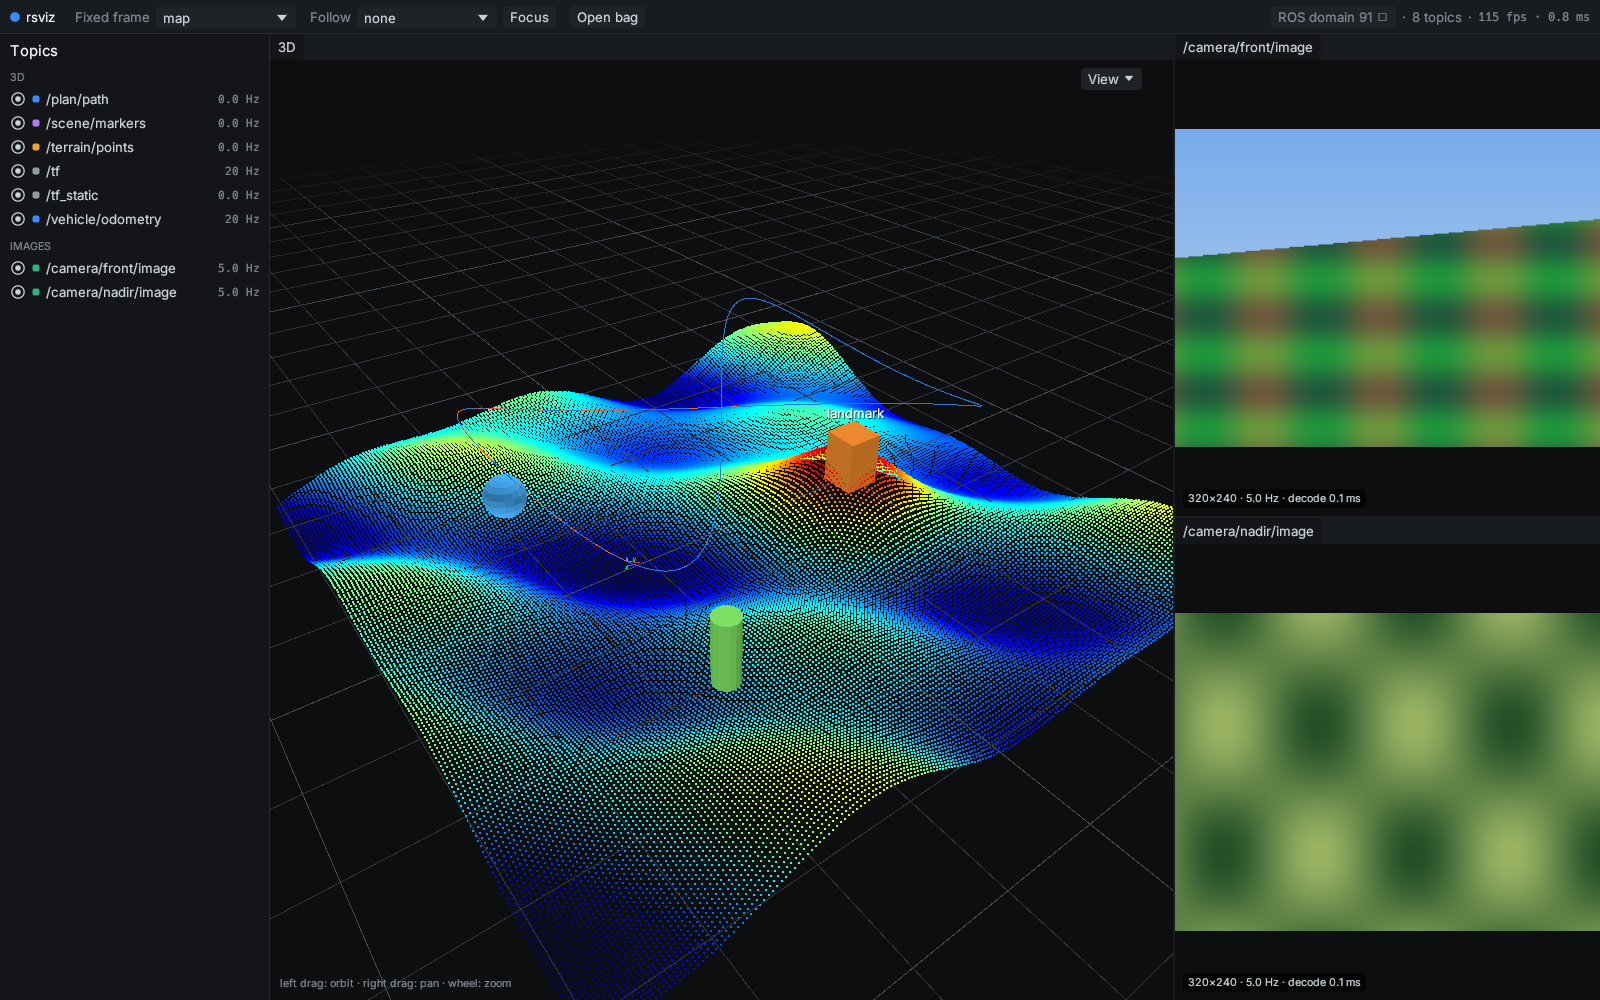
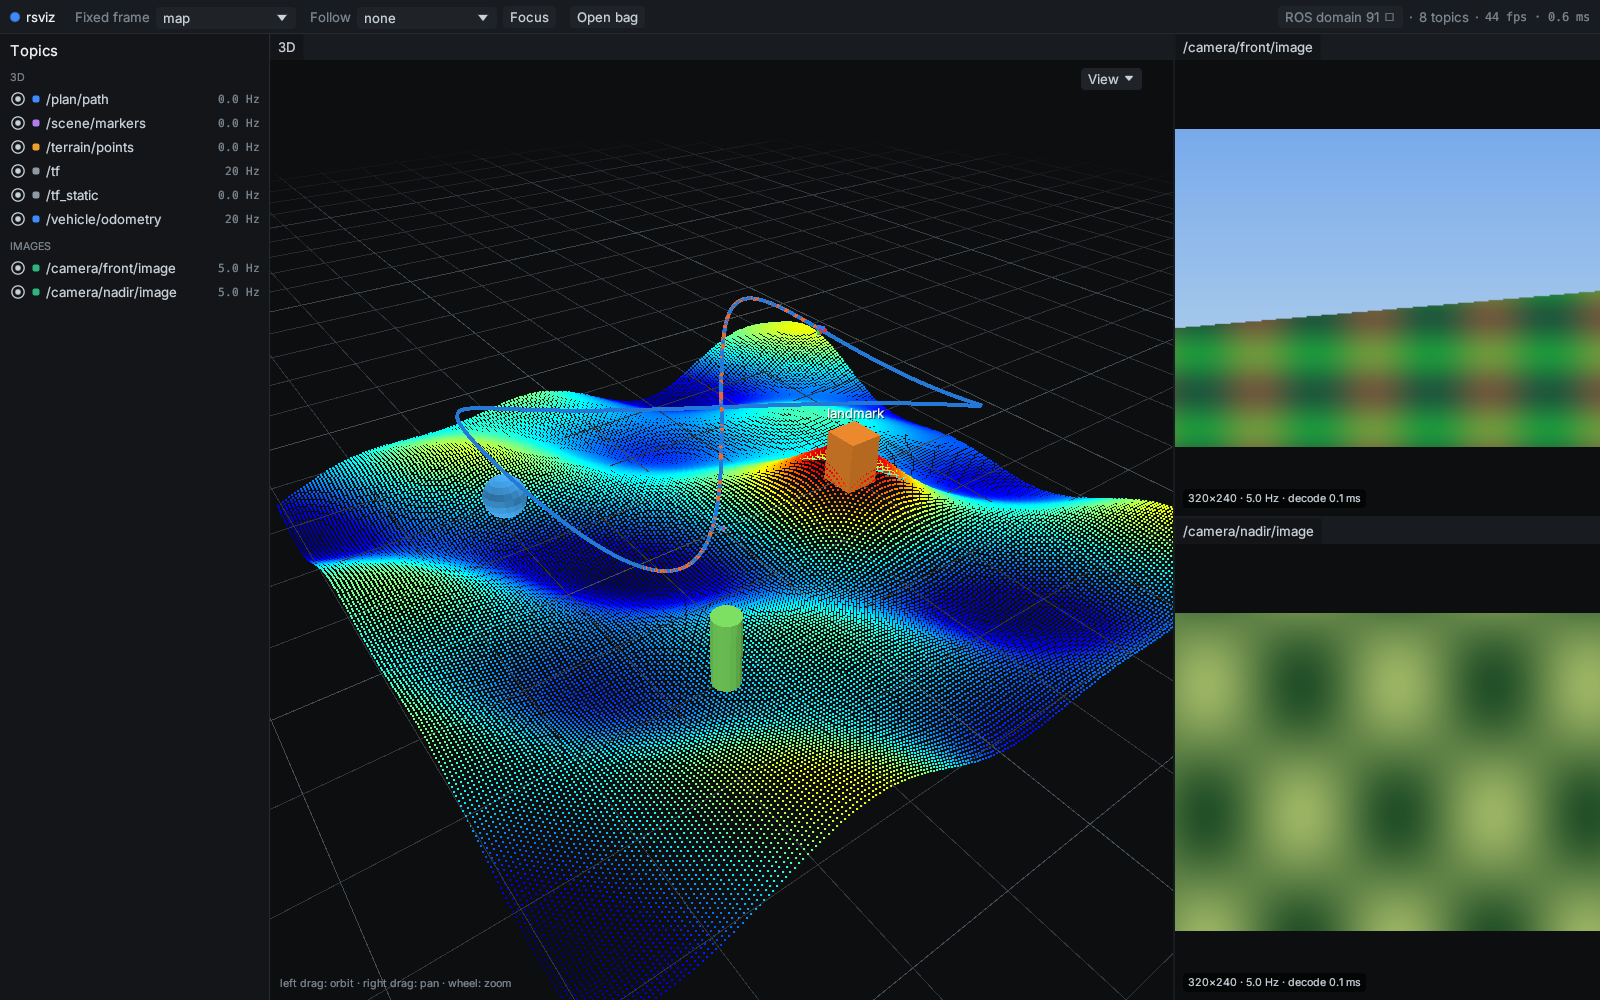
Line width: lines drawn as screen-aligned quads, --line-width and a slider in the View menu (the grid stays one pixel)

diff --git a/src/gfx.rs b/src/gfx.rs
@@ -161,7 +161,18 @@ struct PointUniform {
 #[derive(Clone, Copy, Pod, Zeroable)]
 pub struct LineVertex {
     pub pos: [f32; 3],
+    /// 1 = drawn at the line width of the view, 0 = always one pixel (the grid).
+    pub width: f32,
     pub color: [f32; 4],
+}
+
+#[repr(C)]
+#[derive(Clone, Copy, Pod, Zeroable)]
+struct LineUniform {
+    vp: [[f32; 4]; 4],
+    viewport: [f32; 2],
+    line_px: f32,
+    _p0: f32,
 }
 
 const POINT_WGSL: &str = r#"
@@ -214,11 +225,37 @@ fn cmap(t: f32) -> vec3<f32> {
 @fragment fn fs(i: VOut) -> @location(0) vec4<f32> { return vec4<f32>(i.col, 1.0); }
 "#;
 
+// One instance per segment (its two LineVertex), drawn as a screen-aligned quad `line_px` pixels wide (6 vertices): the
+// GPU line primitive is one pixel wide whatever is asked. A segment that crosses the camera plane is cut there.
 const LINE_WGSL: &str = r#"
-@group(0) @binding(0) var<uniform> vp: mat4x4<f32>;
-struct VIn { @location(0) pos: vec3<f32>, @location(1) col: vec4<f32> };
+struct U { vp: mat4x4<f32>, viewport: vec2<f32>, line_px: f32, _p0: f32 };
+@group(0) @binding(0) var<uniform> u: U;
+struct VIn {
+  @location(0) a: vec3<f32>, @location(1) aw: f32, @location(2) ac: vec4<f32>,
+  @location(3) b: vec3<f32>, @location(4) bw: f32, @location(5) bc: vec4<f32>,
+};
 struct VOut { @builtin(position) pos: vec4<f32>, @location(0) col: vec4<f32> };
-@vertex fn vs(v: VIn) -> VOut { var o: VOut; o.pos = vp * vec4<f32>(v.pos, 1.0); o.col = v.col; return o; }
+@vertex fn vs(v: VIn, @builtin(vertex_index) i: u32) -> VOut {
+  var o: VOut;
+  var ends = array<f32, 6>(0.0, 1.0, 1.0, 0.0, 1.0, 0.0);
+  var sides = array<f32, 6>(-1.0, -1.0, 1.0, -1.0, 1.0, 1.0);
+  var ca = u.vp * vec4<f32>(v.a, 1.0);
+  var cb = u.vp * vec4<f32>(v.b, 1.0);
+  let near = 1e-4;
+  o.col = v.ac;
+  if (ca.w < near && cb.w < near) { o.pos = vec4<f32>(2.0, 2.0, 2.0, 1.0); return o; }
+  if (ca.w < near) { ca = mix(ca, cb, (near - ca.w) / (cb.w - ca.w)); }
+  if (cb.w < near) { cb = mix(cb, ca, (near - cb.w) / (ca.w - cb.w)); }
+  var d = (cb.xy / cb.w - ca.xy / ca.w) * u.viewport;
+  let l = length(d);
+  if (l < 1e-6) { d = vec2<f32>(1.0, 0.0); } else { d = d / l; }
+  let px = max(1.0, mix(1.0, u.line_px, v.aw));
+  let n = vec2<f32>(-d.y, d.x) * px / u.viewport;
+  let c = mix(ca, cb, ends[i]);
+  o.pos = vec4<f32>(c.xy + n * sides[i] * c.w, c.z, c.w);
+  o.col = mix(v.ac, v.bc, ends[i]);
+  return o;
+}
 @fragment fn fs(i: VOut) -> @location(0) vec4<f32> { return vec4<f32>(pow(i.col.rgb, vec3<f32>(2.2)), i.col.a); }
 "#;
 
@@ -406,13 +443,13 @@ impl View3D {
                 entry_point: "vs",
                 compilation_options: Default::default(),
                 buffers: &[wgpu::VertexBufferLayout {
-                    array_stride: std::mem::size_of::<LineVertex>() as u64,
-                    step_mode: wgpu::VertexStepMode::Vertex,
-                    attributes: &wgpu::vertex_attr_array![0 => Float32x3, 1 => Float32x4],
+                    array_stride: 2 * std::mem::size_of::<LineVertex>() as u64,
+                    step_mode: wgpu::VertexStepMode::Instance,
+                    attributes: &wgpu::vertex_attr_array![0 => Float32x3, 1 => Float32, 2 => Float32x4, 3 => Float32x3, 4 => Float32, 5 => Float32x4],
                 }],
             },
             fragment: Some(wgpu::FragmentState { module: &lm, entry_point: "fs", compilation_options: Default::default(), targets: &target }),
-            primitive: wgpu::PrimitiveState { topology: wgpu::PrimitiveTopology::LineList, ..Default::default() },
+            primitive: wgpu::PrimitiveState { topology: wgpu::PrimitiveTopology::TriangleList, ..Default::default() },
             depth_stencil: depth_state,
             multisample: Default::default(),
             multiview: None,
@@ -420,7 +457,7 @@ impl View3D {
         });
         let line_uniform = device.create_buffer_init(&wgpu::util::BufferInitDescriptor {
             label: Some("lines vp"),
-            contents: bytemuck::bytes_of(&Mat4::IDENTITY.to_cols_array_2d()),
+            contents: bytemuck::bytes_of(&LineUniform { vp: Mat4::IDENTITY.to_cols_array_2d(), viewport: [1.0, 1.0], line_px: 1.0, _p0: 0.0 }),
             usage: wgpu::BufferUsages::UNIFORM | wgpu::BufferUsages::COPY_DST,
         });
         let line_bind = device.create_bind_group(&wgpu::BindGroupDescriptor {
@@ -744,8 +781,9 @@ impl View3D {
         }
     }
 
-    pub fn render(&self, enc: &mut wgpu::CommandEncoder, queue: &wgpu::Queue, vp: Mat4, bg: [f64; 3]) {
-        queue.write_buffer(&self.line_uniform, 0, bytemuck::bytes_of(&vp.to_cols_array_2d()));
+    pub fn render(&self, enc: &mut wgpu::CommandEncoder, queue: &wgpu::Queue, vp: Mat4, bg: [f64; 3], line_px: f32) {
+        let lu = LineUniform { vp: vp.to_cols_array_2d(), viewport: [self.size.0 as f32, self.size.1 as f32], line_px, _p0: 0.0 };
+        queue.write_buffer(&self.line_uniform, 0, bytemuck::bytes_of(&lu));
         let mut rp = enc.begin_render_pass(&wgpu::RenderPassDescriptor {
             label: Some("3d"),
             color_attachments: &[Some(wgpu::RenderPassColorAttachment {
@@ -773,7 +811,7 @@ impl View3D {
             rp.set_pipeline(&self.line_pipe);
             rp.set_bind_group(0, &self.line_bind, &[]);
             rp.set_vertex_buffer(0, self.line_buf.slice(..));
-            rp.draw(0..self.line_count, 0..1);
+            rp.draw(0..6, 0..self.line_count / 2);
         }
         rp.set_pipeline(&self.point_pipe);
         for g in self.clouds.values() {

diff --git a/src/main.rs b/src/main.rs
@@ -7,7 +7,7 @@
 //! muted; closing it brings them back.
 //!
 //!   rsviz [bag ...] [--fixed-frame map] [--follow base_link|none] [--distance 30] [--pitch 0.6] [--topics /a,/b]
-//!         [--point-size 2] [--trail 20000] [--width 1600 --height 1000] [--present fifo|mailbox|immediate] [--max-fps N]
+//!         [--point-size 2] [--line-width 2] [--trail 20000] [--width 1600 --height 1000] [--present fifo|mailbox|immediate] [--max-fps N]
 //!         [--rate 1.0] [--start 0] [--loop] [--paused] [--bag-info] [--on-demand] [--gpu intel|nvidia] [--fullscreen] [--domain N]
 //!   bag ...: the bag to play (several files = the splits of one recording). Also: Open bag, or drop it on the window.
 //!   --rate, --start, --loop, --paused: playback speed, start time (seconds into the bag), loop at the end, start paused.
@@ -52,6 +52,7 @@ struct Args {
     pitch: f32,
     topics: Option<Vec<String>>,
     point_px: f32,
+    line_px: f32,
     trail: usize,
     width: u32,
     height: u32,
@@ -83,6 +84,7 @@ fn parse_args() -> Args {
         pitch: 0.6,
         topics: None,
         point_px: 2.0,
+        line_px: 2.0,
         trail: 20000,
         width: 1600,
         height: 1000,
@@ -108,6 +110,7 @@ fn parse_args() -> Args {
             "--pitch" => a.pitch = v().parse().expect("--pitch"),
             "--topics" => a.topics = Some(v().split(',').map(|s| s.trim().to_owned()).filter(|s| !s.is_empty()).collect()),
             "--point-size" => a.point_px = v().parse().expect("--point-size"),
+            "--line-width" => a.line_px = v().parse().expect("--line-width"),
             "--trail" => a.trail = v().parse().expect("--trail"),
             "--width" => a.width = v().parse().expect("--width"),
             "--height" => a.height = v().parse().expect("--height"),
@@ -478,7 +481,7 @@ impl App {
             r.egui_rend.update_texture(&r.gpu.device, &r.gpu.queue, *id, delta);
         }
         let mut enc = r.gpu.device.create_command_encoder(&Default::default());
-        r.view.render(&mut enc, &r.gpu.queue, vp, [0.0037, 0.0044, 0.0051]);
+        r.view.render(&mut enc, &r.gpu.queue, vp, [0.0037, 0.0044, 0.0051], r.settings.line_px);
         let extra = r.egui_rend.update_buffers(&r.gpu.device, &r.gpu.queue, &mut enc, &jobs, &sd);
         {
             let mut rp = enc
@@ -576,8 +579,8 @@ fn build_lines(s: &SceneData, fixed: &str, visible: &HashMap<String, bool>, grid
     let mut v = Vec::new();
     let mut gv: Vec<LineVertex> = Vec::new();
     let mut seg = |a: Vec3, b: Vec3, c: [f32; 4]| {
-        v.push(LineVertex { pos: a.to_array(), color: c });
-        v.push(LineVertex { pos: b.to_array(), color: c });
+        v.push(LineVertex { pos: a.to_array(), width: 1.0, color: c });
+        v.push(LineVertex { pos: b.to_array(), width: 1.0, color: c });
     };
     if let Some((c, step)) = grid {
         // 40 x 40 cells, fading out with the distance from the centre (each line split so the fade shows).
@@ -600,8 +603,8 @@ fn build_lines(s: &SceneData, fixed: &str, visible: &HashMap<String, bool>, grid
                         cp[3] *= 0.5;
                         cq[3] *= 0.5;
                     }
-                    gv.push(LineVertex { pos: p.to_array(), color: cp });
-                    gv.push(LineVertex { pos: q.to_array(), color: cq });
+                    gv.push(LineVertex { pos: p.to_array(), width: 0.0, color: cp });
+                    gv.push(LineVertex { pos: q.to_array(), width: 0.0, color: cq });
                 }
             }
         }
@@ -689,7 +692,7 @@ impl ApplicationHandler<()> for App {
             camera: Camera { dist: self.args.distance, pitch: self.args.pitch, ..Camera::default() },
             visible: HashMap::new(),
             lines_key: (u64::MAX, String::new(), false, false, [0; 3], 0),
-            settings: ui::ViewSettings { point_px: self.args.point_px, grid: true, axes: true },
+            settings: ui::ViewSettings { point_px: self.args.point_px, line_px: self.args.line_px, grid: true, axes: true },
             tree: ui::build_tree(&[]),
             tree_key: Vec::new(),
             timeline: ui::TimelineState::default(),

diff --git a/src/ui.rs b/src/ui.rs
@@ -310,6 +310,7 @@ pub fn build_tree(images: &[String]) -> egui_tiles::Tree<Pane> {
 
 pub struct ViewSettings {
     pub point_px: f32,
+    pub line_px: f32,
     pub grid: bool,
     pub axes: bool,
 }
@@ -371,6 +372,7 @@ impl egui_tiles::Behavior<Pane> for Behavior<'_> {
                 ui.allocate_new_ui(egui::UiBuilder::new().max_rect(opt), |ui| {
                     ui.menu_button("View ⏷", |ui| {
                         ui.add(egui::Slider::new(&mut self.settings.point_px, 1.0..=10.0).text("point size"));
+                        ui.add(egui::Slider::new(&mut self.settings.line_px, 1.0..=10.0).text("line width"));
                         ui.checkbox(&mut self.settings.grid, "Grid");
                         ui.checkbox(&mut self.settings.axes, "TF axes");
                     });

diff --git a/README.md b/README.md
@@ -91,7 +91,8 @@ While a bag is open the live topics are muted; closing it brings them back.
 | `--follow base_link\|none` | the TF frame the camera orbits (default: `base_link` as soon as it exists) |
 | `--distance 30`, `--pitch 0.6` | start distance and pitch of the camera |
 | `--topics /a,/b` | show only these topics |
-| `--point-size 2`, `--trail 20000` | size of the points, length of the pose trails |
+| `--point-size 2`, `--line-width 2` | size of the points and width of the lines, in pixels (also in the View menu) |
+| `--trail 20000` | length of the pose trails |
 | `--domain N` | ROS domain to listen on (default: `ROS_DOMAIN_ID`) |
 | `--rate 1.0`, `--start 0`, `--loop`, `--paused` | bag playback: speed, start time (s), loop, start paused |
 | `--on-demand` | draw only when something changes |
